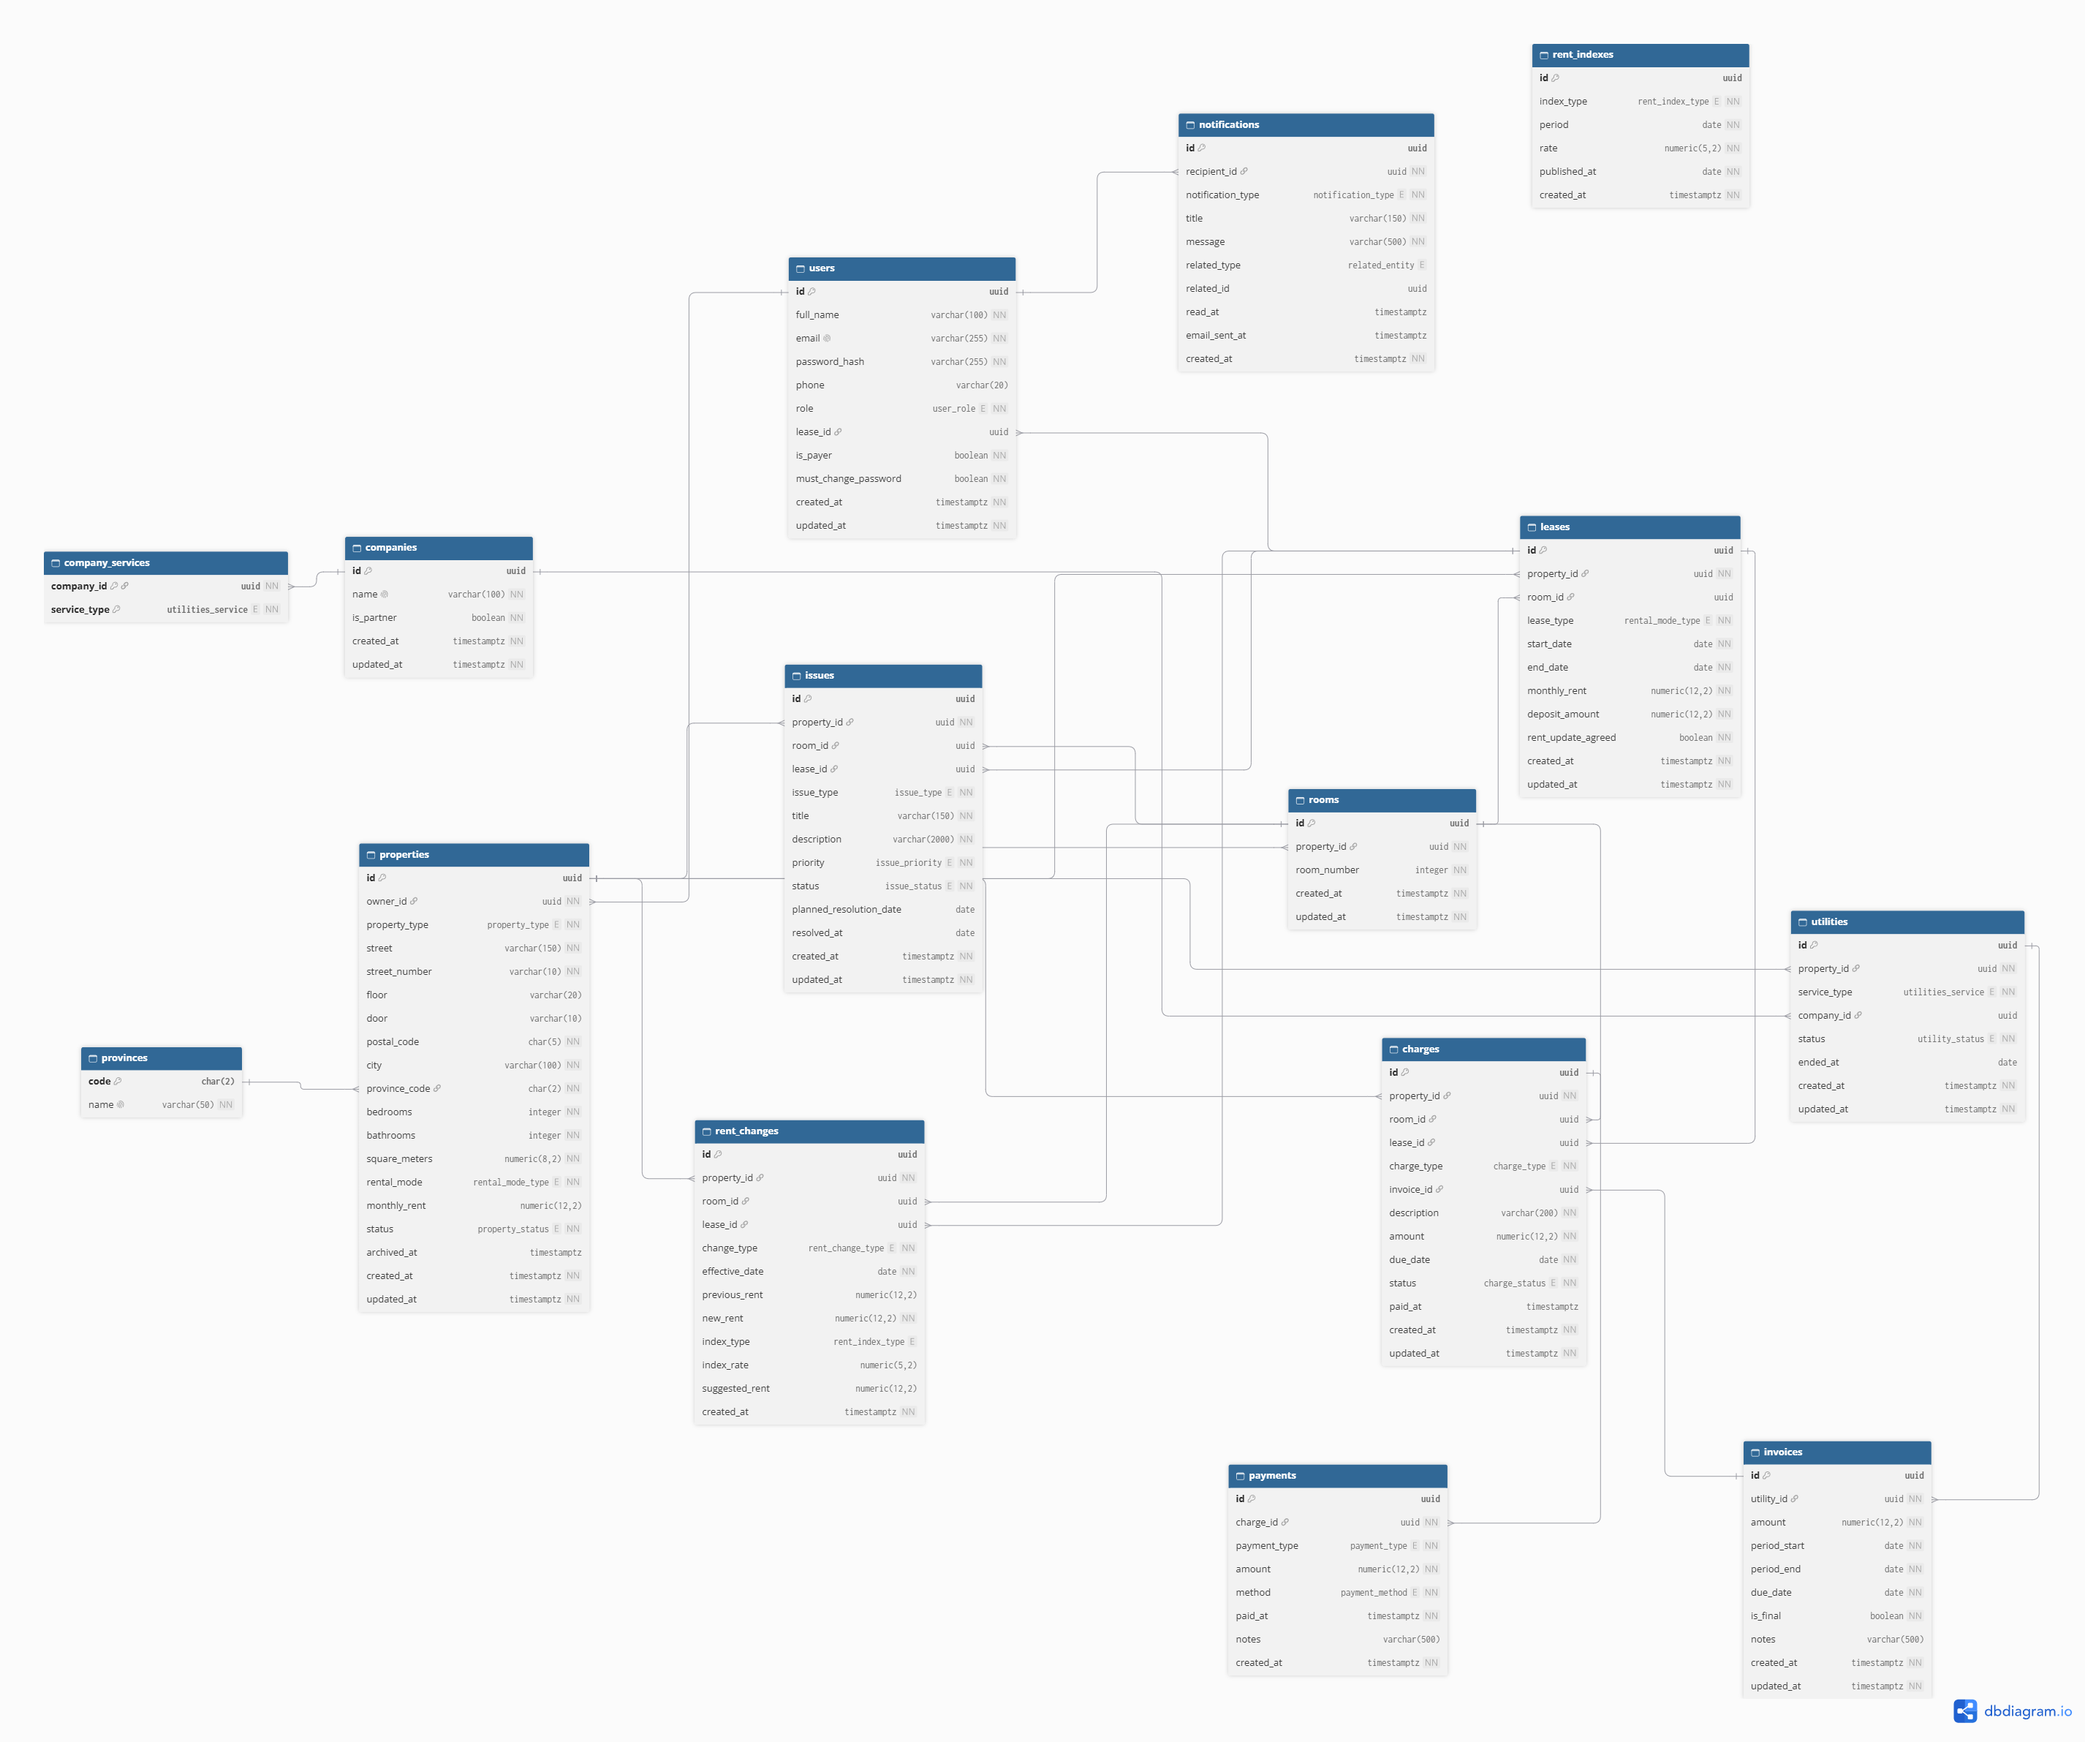
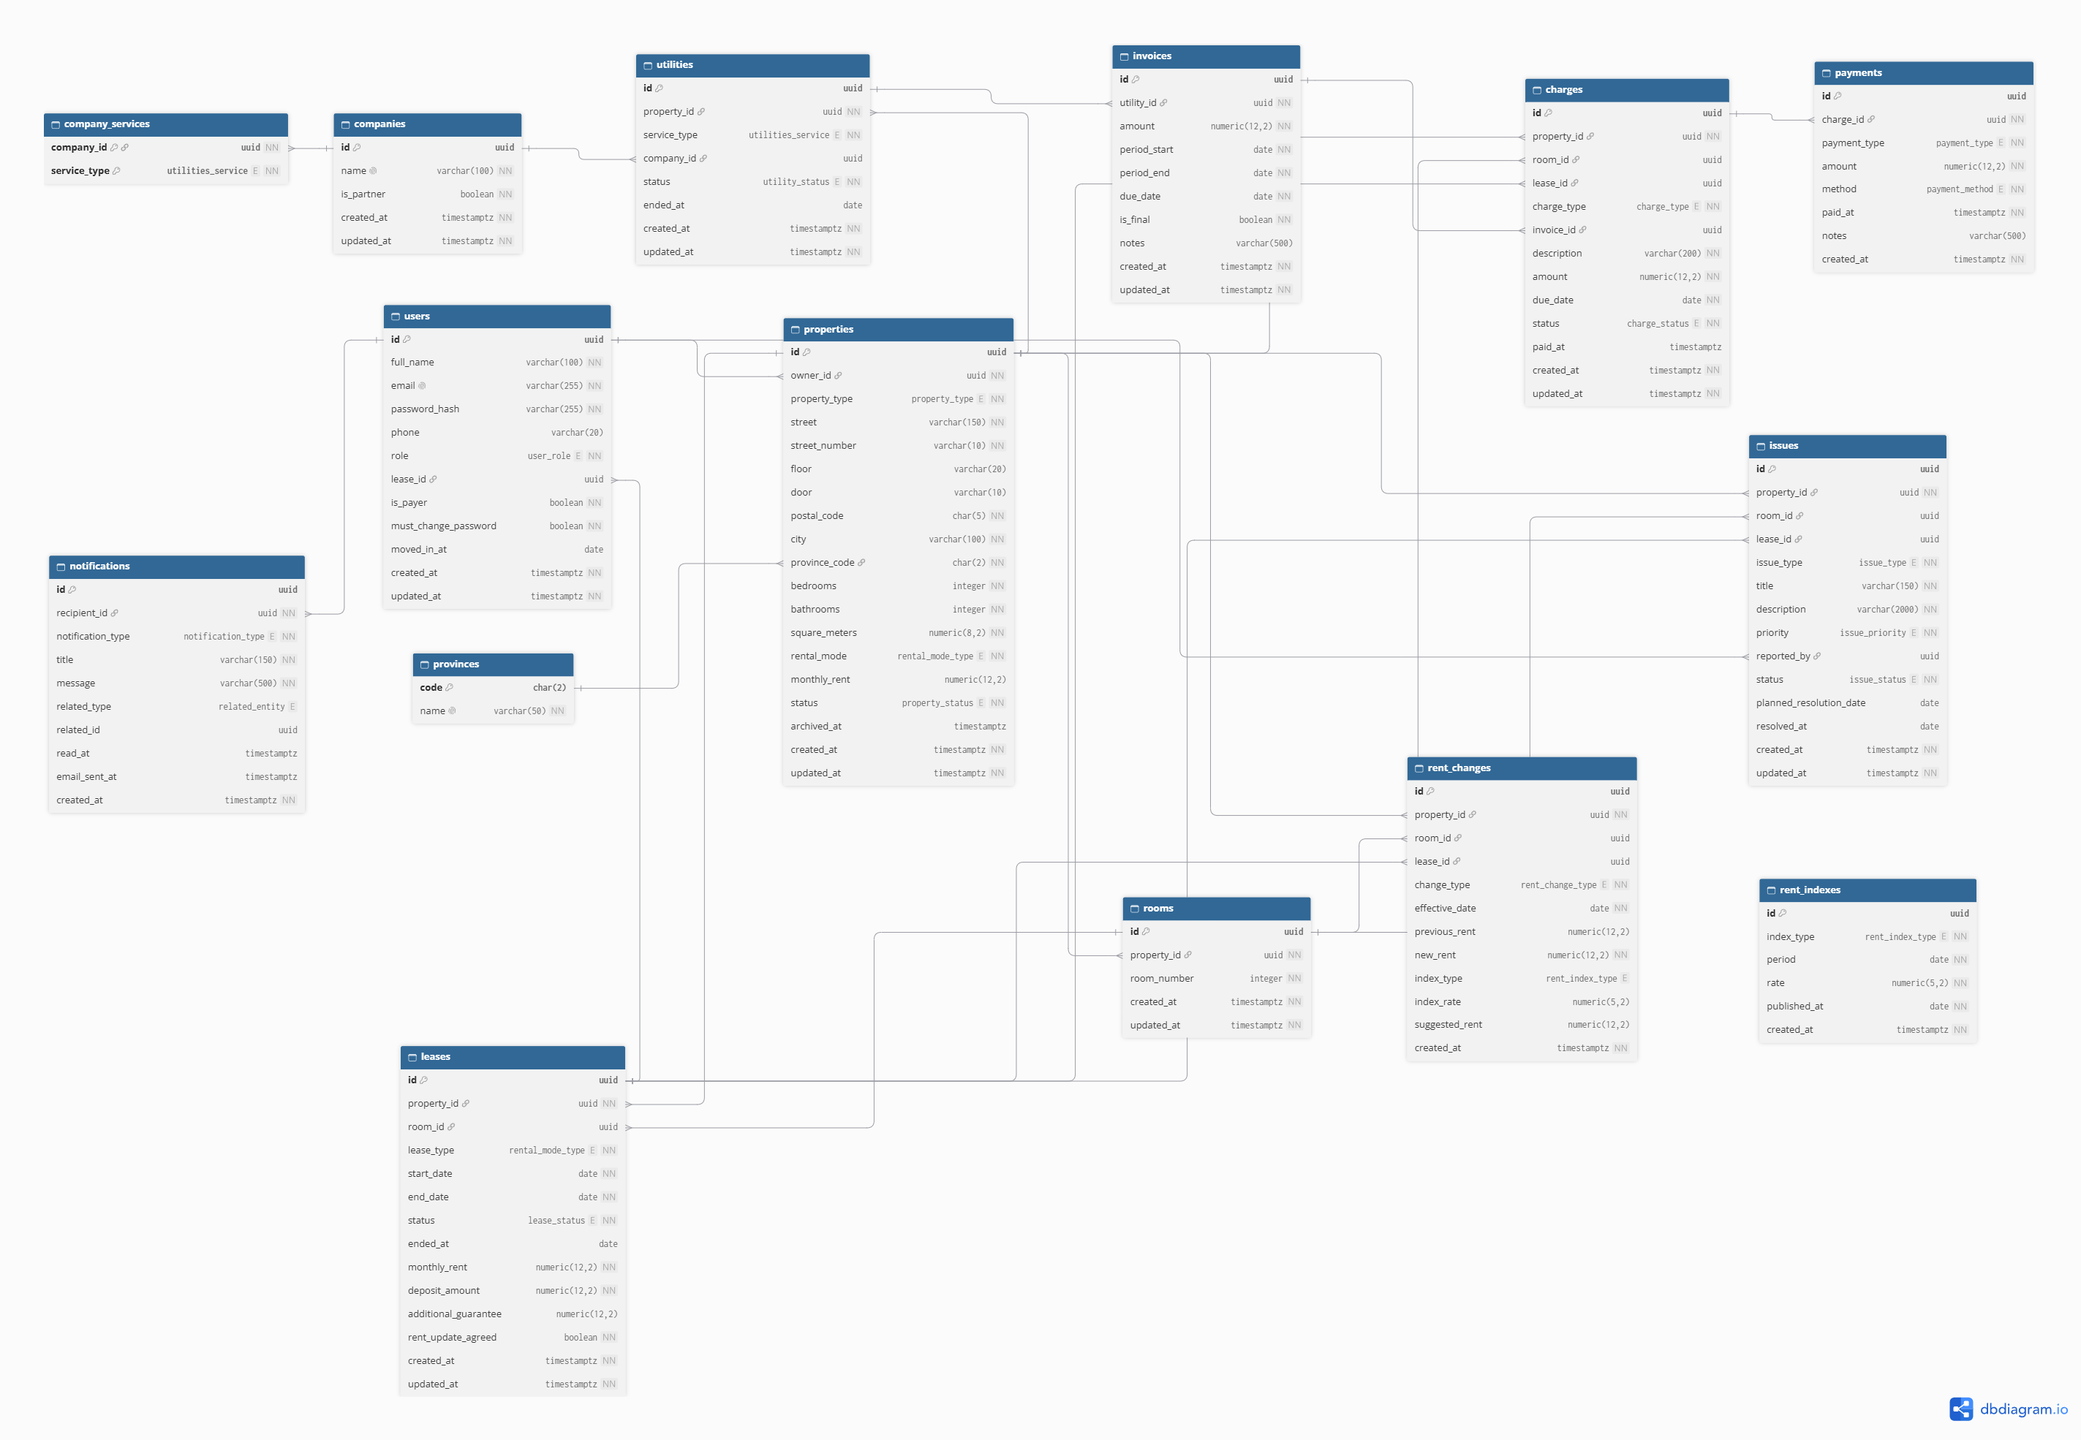
LVF-24 docs: revisión final del modelo de datos

diff --git a/docs/modelo-datos.md b/docs/modelo-datos.md
@@ -47,9 +47,10 @@
 
 ### Inquilinos
 - Un inquilino no puede registrarse por su cuenta; necesita que un propietario lo registre.
-- Al borrar un inquilino se borran sus datos personales y su contrato. Se conservan, sin vincularlos a ninguna persona, sus cobros, sus pagos y el historial de rentas, porque el propietario los necesita
-para declarar sus ingresos.
+- Al borrar un inquilino se borran sus datos personales. Se conservan, sin vincularlos a ninguna persona, sus cobros, sus pagos y el historial de rentas, porque el propietario los necesita para declarar sus ingresos.
+- Si era el último inquilino de su contrato, el contrato pasa a ENDED.
 - Se conservan sus incidencias, sus notificaciones se borran.
+- No se puede borrar al encargado de un contrato con cobros OPEN: sus datos se conservan hasta que la deuda se pague o se dé por perdida.
 
 ### Rentas
 - Todos los contratos tienen su renta. En los completos es siempre la de la propiedad, y se actualizan juntas.
@@ -87,6 +88,7 @@ para declarar sus ingresos.
 | lease_id | UUID | solo inquilinos | contrato al que pertenece; vacío en propietarios |
 | is_payer | sí/no | sí | encargado de pagos de su contrato; en propietarios siempre "no" |
 | must_change_password | sí/no | sí | por defecto "no"; "sí" cuando el propietario crea al inquilino |
+| moved_in_at | fecha | solo inquilinos | dia de entrada en la vivienda; cuenta como dia completo en el reparto |
 | created_at | fecha y hora | sí | se rellena sola al crear |
 | updated_at | fecha y hora | sí | se actualiza sola al modificar |
 
@@ -94,6 +96,8 @@ para declarar sus ingresos.
 - Un OWNER no puede tener lease_id ni is_payer = sí.
 - Un TENANT tiene que tener lease_id.
 - Solo puede haber un encargado por contrato.
+- Un TENANT tiene que tener moved_in_at, y no puede ser anterior al start_date de su contrato.
+- No se puede borrar al encargado de un contrato que tenga cobros OPEN.
 
 ### companies
 | Campo | Tipo | Obligatorio | Notas |
@@ -166,8 +170,8 @@ para declarar sus ingresos.
 ### provinces
 | Campo | Tipo | Obligatorio | Notas |
 |---|---|---|---|
-| code | texto (2) | si | clave primaria; codigo oficial (ej: 46 = Valencia) |
-| name | texto | si | único; maximo 50 caracteres |
+| code | texto (2) | sí | clave primaria; codigo oficial (ej: 46 = Valencia) |
+| name | texto | sí | único; maximo 50 caracteres |
 
 **Reglas**
 - Las 52 filas se cargan al crear la base de datos y no se modifican desde la app.
@@ -175,18 +179,19 @@ para declarar sus ingresos.
 ### rooms
 | Campo | Tipo | Obligatorio | Notas |
 |---|---|---|---|
-| id | UUID | si | se genera solo |
-| property_id | UUID | si | apunta a properties |
+| id | UUID | sí | se genera solo |
+| property_id | UUID | sí | apunta a properties |
 | room_number | numero entero | si | 1 o mas; unico dentro de la propiedad |
-| created_at | fecha y hora | si | se rellena sola al crear |
-| updated_at | fecha y hora | si | se actualiza sola al modificar |
+| created_at | fecha y hora | sí | se rellena sola al crear |
+| updated_at | fecha y hora | sí | se actualiza sola al modificar |
 
 **Reglas**
-- Solo se puede crear habitaciones en propiedades con rental_mode = ROOMS.
+- Solo se puede crear habitaciones en propiedades con rental_mode = ROOM.
 - No se puede repetir el mismo número de habitación en una propiedad.
 - No hay límite de habitaciones respecto a bedrooms; el propietario puede crear las que quiera y borrar las que no tengan contrato activo.
 - Una habitación solo se puede borrar si no tiene un contrato activo.
 - Al borrar una habitación, su historial de rentas se conserva ligado a la propiedad, sin indicar la habitación.
+- Si la propiedad pasa a FULL, sus habitaciones se conservan, pero no se usan hasta que vuelva a ROOM.
 
 ### utilities
 | Campo | Tipo | Obligatorio | Notas |
@@ -195,7 +200,7 @@ para declarar sus ingresos.
 | property_id | UUID | sí | apunta a properties |
 | service_type | lista de valores | sí | ELECTRICITY, WATER, GAS, INTERNET |
 | company_id | UUID | no | apunta a companies; vacío = "Otra" |
-| status | lista de valores | si | PENDING (registrado, aun no en uso), ACTIVE (en uso), ENDED (finalizado) |
+| status | lista de valores | sí | PENDING (registrado, aun no en uso), ACTIVE (en uso), ENDED (finalizado) |
 | ended_at | fecha | no | fecha en que se finalizo; solo si status = ENDED |
 | created_at | fecha y hora | sí | se rellena sola al crear |
 | updated_at | fecha y hora | sí | se actualiza sola al modificar |
@@ -218,8 +223,11 @@ para declarar sus ingresos.
 | lease_type | lista de valores | sí | FULL, ROOM |
 | start_date | fecha | sí | inicio; decide el aniversario y si se aplica IRAV o IPC |
 | end_date | fecha | sí | fin pactado; se amplía si se prorroga |
+| status | lista de valores | sí | ACTIVE (activo), ENDED (finalizado); por defecto ACTIVE |
+| ended_at | fecha | no | fecha real en que finalizó; solo si ENDED |
 | monthly_rent | dinero | sí | renta actual; en FULL, igual a la de la propiedad |
 | deposit_amount | dinero | sí | importe de la fianza |
+| additional_guarantee | dinero | no | garantía adicional a la fianza (depósito o aval); vacío si no hay |
 | rent_update_agreed | sí/no | sí | si el contrato permite actualizar la renta; si "no", la app no sugiere actualizaciones |
 | created_at | fecha y hora | sí | se rellena sola al crear |
 | updated_at | fecha y hora | sí | se actualiza sola al modificar |
@@ -231,8 +239,10 @@ para declarar sus ingresos.
 - Se avisa al propietario X meses antes de end_date (X es un parámetro configurable según la ley).
 - Al llegar end_date, la app pregunta al propietario si el contrato ha finalizado o se ha prorrogado. Si se prorroga, end_date se amplía un año.
 - Mientras el propietario no conteste, el contrato sigue activo y la app le recuerda la pregunta. La app nunca finaliza un contrato por su cuenta.
-- El contrato finaliza cuando se van todos sus inquilinos, o cuando el propietario confirma que ha finalizado.
-- Al finalizar, la app muestra la fianza a devolver.
+- Al finalizar, la app muestra la fianza y la garantía adicional disponibles, para cubrir los cobros pendientes y saber cuánto hay que devolver.
+- Cuando el contrato finaliza, pasa a ENDED. A los 10 días se borra, junto con los inquilinos que queden.
+- Al finalizar con cobros pendientes, la app avisa al propietario. Puede descontarlos de la fianza (PAID, método OTHER) o darlos por perdidos (UNCOLLECTIBLE).
+- Un contrato ENDED con cobros OPEN no se borra a los 10 días: se conserva, con sus inquilinos, hasta que los cobros se paguen o se marquen como UNCOLLECTIBLE.
 
 ### rent_changes
 | Campo | Tipo | Obligatorio | Notas |
@@ -337,6 +347,7 @@ para declarar sus ingresos.
 | title | texto | sí | máximo 150 caracteres |
 | description | texto | sí | máximo 2.000 caracteres |
 | priority | lista de valores | sí | LOW, MEDIUM, HIGH, URGENT |
+| reported_by | UUID | no | apunta a users; inquilino que la abrio; se vacia si se borra |
 | status | lista de valores | sí | OPEN (abierta), IN_PROGRESS (en curso), RESOLVED (resuelta) |
 | planned_resolution_date | fecha | no | fecha prevista; sin límite futuro; no anterior a la apertura |
 | resolved_at | fecha | no | fecha real; solo si RESOLVED; entre la apertura y hoy |
@@ -346,7 +357,7 @@ para declarar sus ingresos.
 **Reglas**
 - La abre el inquilino; el propietario cambia el estado y las fechas.
 - Las incidencias resueltas se conservan como historial de la propiedad.
-- Al borrar al inquilino, sus incidencias se conservan sin datos personales (lease_id se vacía).
+- Al borrar al inquilino, sus incidencias se conservan sin datos personales (lease_id y reported_by se vacían).
 
 ### notifications
 | Campo | Tipo | Obligatorio | Notas |
@@ -382,7 +393,7 @@ para declarar sus ingresos.
 | Propiedad → cobros, historial de rentas, incidencias | 1:N | property_id | la propiedad no se borra, se archiva |
 | Habitación → contratos | 1:N | leases.room_id | no se puede borrar con contrato activo |
 | Habitación → cobros, historial de rentas, incidencias | 1:N | room_id | se vacía |
-| Contrato → inquilinos | 1:N | users.lease_id | al finalizar el contrato se borran sus inquilinos |
+| Contrato → inquilinos | 1:N | users.lease_id | al borrarse el contrato (10 días después de ENDED, si no tiene cobros OPEN) se borran los inquilinos que queden |
 | Contrato → cobros, historial de rentas, incidencias | 1:N | lease_id | se vacía |
 | Compañía → servicios | 1:N | company_services.company_id | se borran |
 | Compañía → suministros | 1:N | utilities.company_id | se vacía (pasa a "Otra") |
@@ -391,6 +402,7 @@ para declarar sus ingresos.
 | Cobro → pagos | 1:N | payments.charge_id | los cobros no se borran (solo VOID) |
 | Usuario → notificaciones | 1:N | notifications.recipient_id | se borran |
 | Provincia → propiedades | 1:N | properties.province_code | no se borran |
+| Usuario → incidencias que abrió | 1:N | issues.reported_by | se vacía |
 
 **Borrado de la cuenta de un propietario**
 - Primero tiene que finalizar todos sus contratos activos.
@@ -398,21 +410,24 @@ para declarar sus ingresos.
 
 ## 6. Diagrama
 
+![Diagrama del modelo de datos](modelo-datos.png)
+
 ## 7. Decisiones descartadas y mejoras futuras
+
 - No se comparte el historial de morosidad entre propietarios: es un dato personal y lo impide el RGPD.
 - El Stripe se implementara despues del nucleo. primero funcionara con "marcar como pagado" para no bloquear el resto del desarrollo.
 - El prorrateo de quien se va se resuelve fuera de la app. asi se simplifica el calculo del reparto.
 - No hay tabla de roles: el rol es un campo de users, porque solo hay dos roles fijos.
 - Cobro automatico en tarjeta o domiciliacion: queda como mejora futura: de momento, el encargado paga cuando quiere.
-- Borrado de inquilinos: eligió anonimizar(borrar los datos personales y conservar los economicos), en lugar del borrado fisico completo,
+- Borrado de inquilinos: se eligió anonimizar(borrar los datos personales y conservar los economicos), en lugar del borrado fisico completo,
 para que el propietario pueda declarar sus ingresos.
 - Locales y garajes descartados por ahora. porque no tienen habitaciones ni admiten alquiler por habitaciones.
 - Estado de la cuenta (activa, suspendida, impago…): descartado por ahora. Los inquilinos se borran al dejar la propiedad, y para los propietarios no hay funcionalidad que lo necesite. Se valorará si Livify cobra suscripciones.
 - Avatar o foto de perfil: descartado, no esta en las funcionalidades.
 - stripe_account_id (propietarios): se añadirá con la épica de Stripe. 
-- Ids: UUID en todas las tablas para que no se puedan adivinar en las URLs.
 - Galería de fotos de entrada y salida (inventario): mejora futura. Las fotos irían ligadas al contrato, con momento CHECK_IN o CHECK_OUT, y se guardarían en S3.
 - Stripe: revisar el flujo de pago y la experiencia del inquilino (redireccion o formulario incrustado) antes de implementarlo
+- Parámetros configurables: meses de preaviso del fin de contrato (según la LAU, 4 o 6), días hasta borrar las notificaciones leídas (2) y días hasta borrar un contrato finalizado (10).
 - Archivos (fotos de incidencias, documentos de facturas, galería de inventario): aplazados hasta tener S3, por coste. Se guardarán en S3 privado con las medidas de seguridad acordadas, y en la base de datos solo la referencia (file_key).
-- Parámetros configurables: meses de preaviso del fin de contrato (según la LAU, 4 o 6) y días hasta borrar las notificaciones leídas (2).
 - Ids: UUID en todas las tablas excepto provinces, que usa su codigo oficial.
+- Inquilinos con deudas: sus datos se conservan hasta que la deuda se pague o se dé por perdida, para que el propietario pueda reclamarla. El RGPD permite conservar datos para ejercer reclamaciones.
